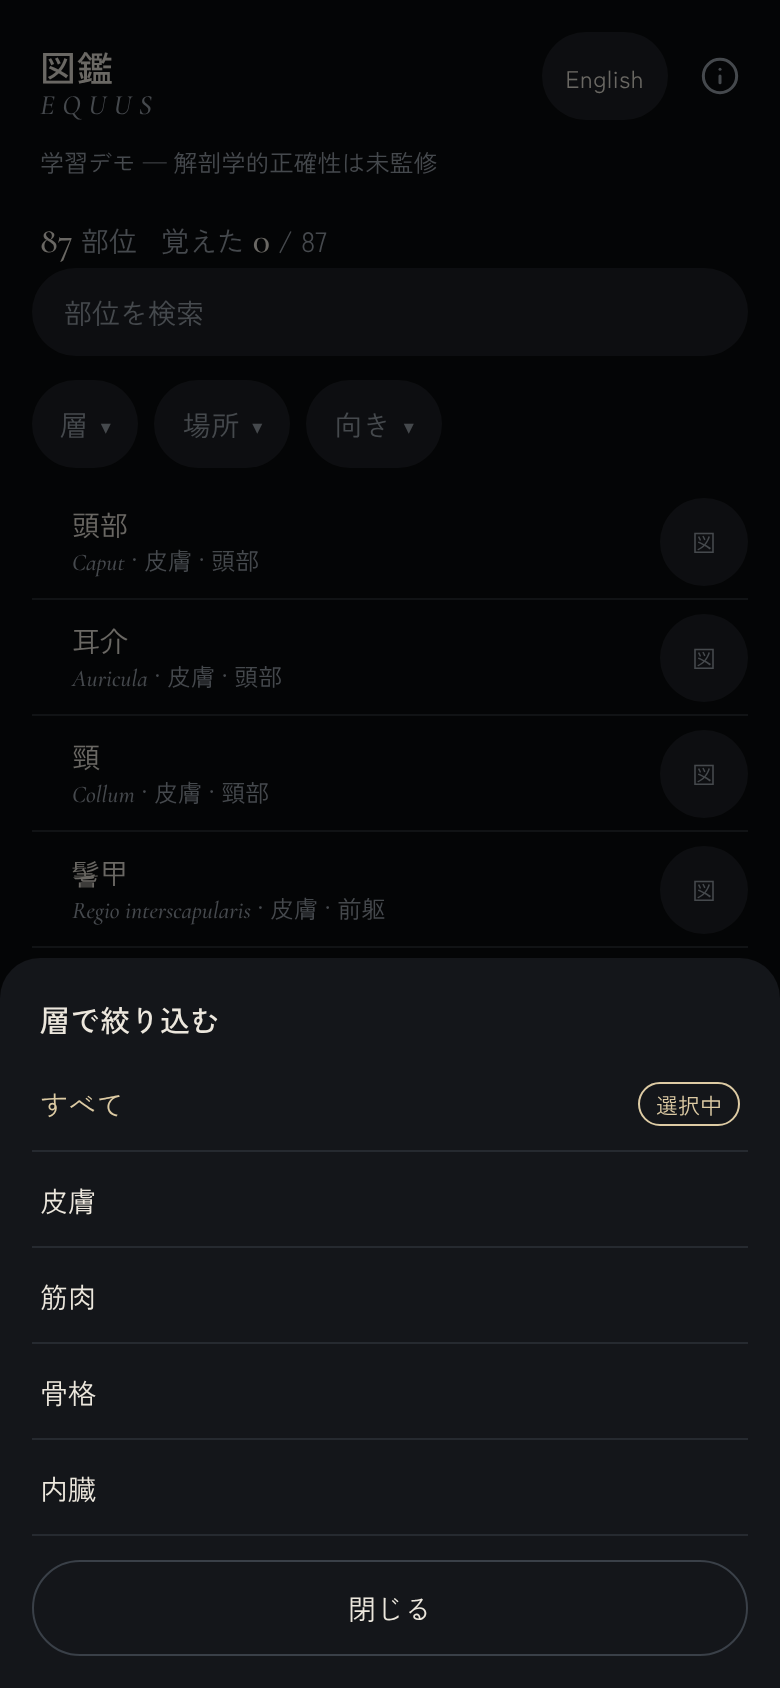
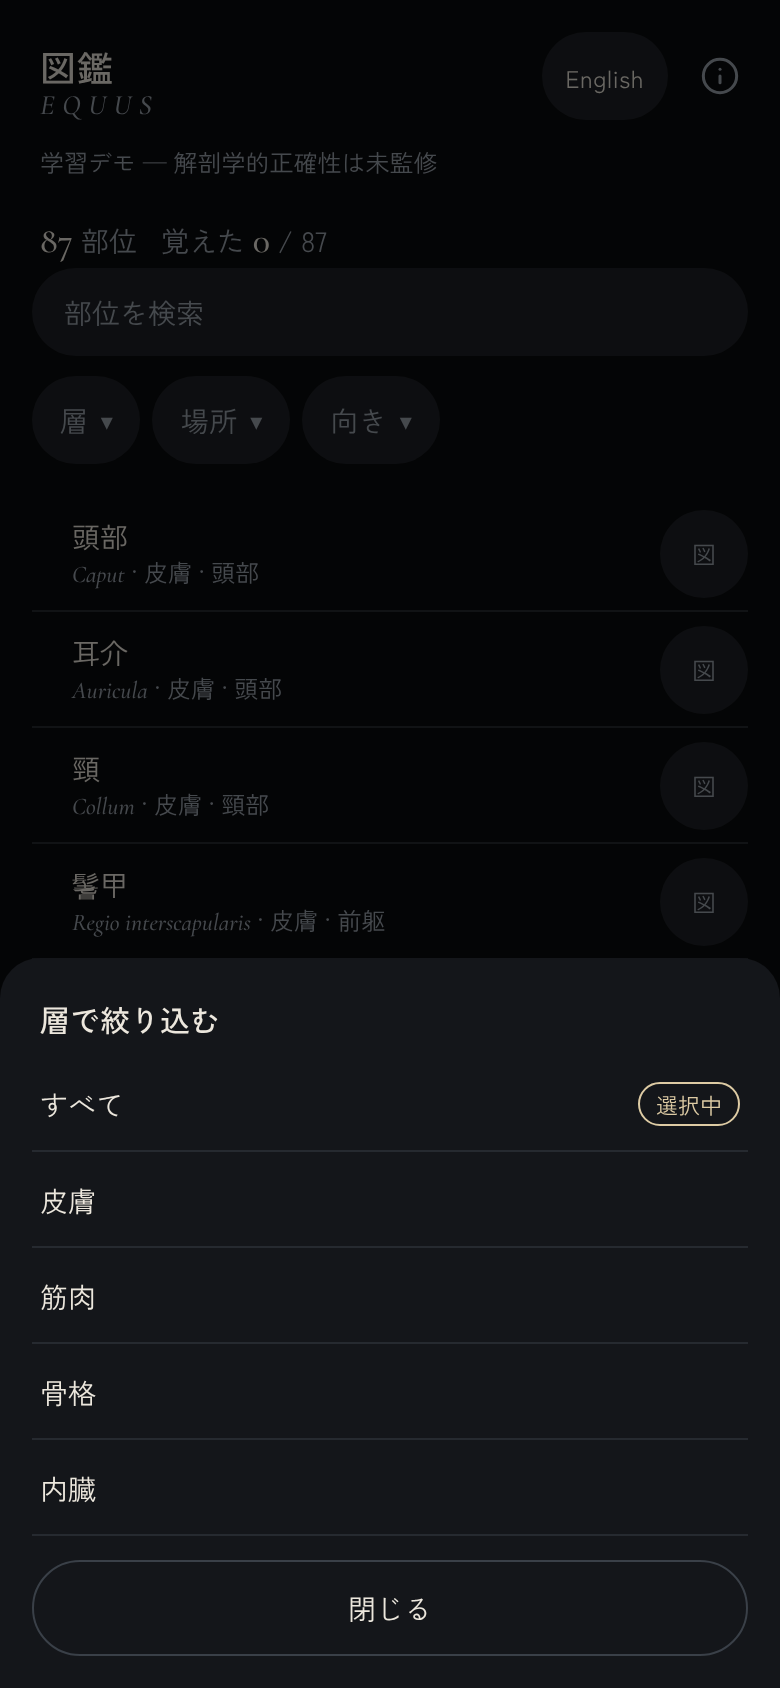
fix(catalog): match the design's spacing and colors and assert the Latin name directly
Claude-Session: https://claude.ai/code/session_01Cv4a6DggpGHJAmmfXW7wbW

diff --git a/src/app/(tabs)/catalog/index.tsx b/src/app/(tabs)/catalog/index.tsx
@@ -291,8 +291,9 @@ const styles = StyleSheet.create({
   clearButton: { minWidth: 52, minHeight: 44, alignItems: 'center', justifyContent: 'center', borderRadius: radius.pill, backgroundColor: color.raised },
   clearText: { fontFamily: fontSans, fontSize: 13, color: color.fg },
   // 文字拡大で3つが1行に入らん時は折り返す。横スクロールにすると端が切れても手掛かりが無い
-  filterRow: { flexDirection: 'row', flexWrap: 'wrap', gap: 8, paddingHorizontal: 16, paddingTop: 8 },
-  resetButton: { minHeight: 44, paddingHorizontal: 16, alignSelf: 'flex-start', alignItems: 'center', justifyContent: 'center' },
+  filterRow: { flexDirection: 'row', flexWrap: 'wrap', gap: 6, paddingHorizontal: 16, paddingTop: 6, paddingBottom: 8 },
+  // 文字の左端を絞り込みのボタンの文字（左余白 16 + ボタン内 14）に揃える
+  resetButton: { minHeight: 44, marginLeft: 16, paddingHorizontal: 14, alignSelf: 'flex-start', alignItems: 'center', justifyContent: 'center' },
   resetText: { fontFamily: fontSans, fontSize: 12, color: color.bone },
   list: { flex: 1 },
   listContent: { paddingHorizontal: 16, paddingTop: 8, paddingBottom: 24 },
@@ -305,7 +306,7 @@ const styles = StyleSheet.create({
   },
   rowMain: { flex: 1, minWidth: 0, flexDirection: 'row', alignItems: 'center', gap: 12, paddingVertical: 12 },
   // 小画面と文字拡大では名前の列が潰れるため、層・名前・場所を縦に読む。
-  rowMainCompact: { flexDirection: 'column', alignItems: 'stretch', gap: 2, paddingVertical: 10 },
+  rowMainCompact: { flexDirection: 'column', alignItems: 'stretch', gap: 3, paddingVertical: 10 },
   mapPill: {
     minHeight: 44,
     width: 44,
@@ -326,8 +327,8 @@ const styles = StyleSheet.create({
   nameJa: { fontFamily: fontSans, fontSize: 14, lineHeight: 20, color: color.fg },
   nameLa: { fontFamily: fontDisplayItalic, fontStyle: 'italic', fontSize: 12, lineHeight: 16, color: color.muted },
   region: { flexShrink: 0, fontFamily: fontSans, fontSize: 12, color: color.faint },
-  meta: { fontFamily: fontSans, fontSize: 12, lineHeight: 16, color: color.faint },
-  metaSep: { color: color.faint },
-  metaText: { fontFamily: fontSans, fontSize: 12, color: color.faint },
+  meta: { fontFamily: fontSans, fontSize: 12, lineHeight: 16, color: color.muted },
+  metaSep: { color: color.muted },
+  metaText: { fontFamily: fontSans, fontSize: 12, color: color.muted },
   empty: { paddingVertical: 24, fontFamily: fontSans, fontSize: 14, color: color.muted },
 })

diff --git a/src/ui/filter-sheet.tsx b/src/ui/filter-sheet.tsx
@@ -68,7 +68,7 @@ export function FilterButton<T extends string>(props: {
                     }}
                     style={styles.option}
                   >
-                    <Text style={[styles.optionText, on ? styles.optionTextOn : null]}>{it.label}</Text>
+                    <Text style={styles.optionText}>{it.label}</Text>
                     {on ? (
                       <View style={styles.selected}>
                         <Text style={styles.selectedText}>{props.selectedLabel}</Text>
@@ -101,7 +101,7 @@ const styles = StyleSheet.create({
   buttonText: { fontFamily: fontSans, fontSize: 14, letterSpacing: 0.35, flexShrink: 1 },
   buttonTextOn: { color: color.accentFg },
   buttonTextOff: { color: color.muted },
-  caret: { fontFamily: fontSans, fontSize: 10 },
+  caret: { fontFamily: fontSans, fontSize: 12, lineHeight: 16 },
   backdrop: { flex: 1, backgroundColor: 'rgba(0,0,0,0.55)', justifyContent: 'flex-end' },
   backdropTap: { flex: 1 },
   sheet: {
@@ -127,7 +127,6 @@ const styles = StyleSheet.create({
     borderBottomColor: color.line,
   },
   optionText: { fontFamily: fontSans, fontSize: 14, color: color.fg, flexShrink: 1 },
-  optionTextOn: { color: color.bone },
   selected: { borderWidth: 1, borderColor: color.bone, borderRadius: radius.pill, paddingHorizontal: 8, paddingVertical: 2 },
   selectedText: { fontFamily: fontSans, fontSize: 11, color: color.bone },
   close: { marginTop: 12, minHeight: 48, borderRadius: radius.pill, borderWidth: 1, borderColor: color.lineStrong, alignItems: 'center', justifyContent: 'center' },

diff --git a/e2e/catalog-readability.spec.ts b/e2e/catalog-readability.spec.ts
@@ -74,9 +74,14 @@ for (const locale of ['en', 'ja'] as const) {
         await expect(page.getByTestId('catalog-search')).toHaveValue(part.nameEn)
         await catalogRow.scrollIntoViewIfNeeded()
         await expectFullText(catalogRow.getByText(structureName(part, locale), { exact: true }))
-        // 2段の行（小画面・文字拡大）ではラテン名は2段目の行内の文字なので、2段目の行で全文を見る
-        const meta = catalogRow.getByTestId(`catalog-row-meta-${part.id}`)
-        await expectFullText((await meta.count()) > 0 ? meta : catalogRow.getByText(part.nameLa, { exact: true }))
+        if (width! / scale! < 600) {
+          // 2段の行（小画面・文字拡大）では、ラテン名は2段目の行内の文字。ラテン名が見えていて、2段目の行が省略されない事を見る
+          const meta = catalogRow.getByTestId(`catalog-row-meta-${part.id}`)
+          await expect(meta.getByText(part.nameLa, { exact: true })).toBeVisible()
+          await expectFullText(meta)
+        } else {
+          await expectFullText(catalogRow.getByText(part.nameLa, { exact: true }))
+        }
         await page.getByTestId(`map-${part.id}`).click()
         await expect(page.getByRole('heading', { level: 2 })).toHaveText(structureName(part, locale))
       })
